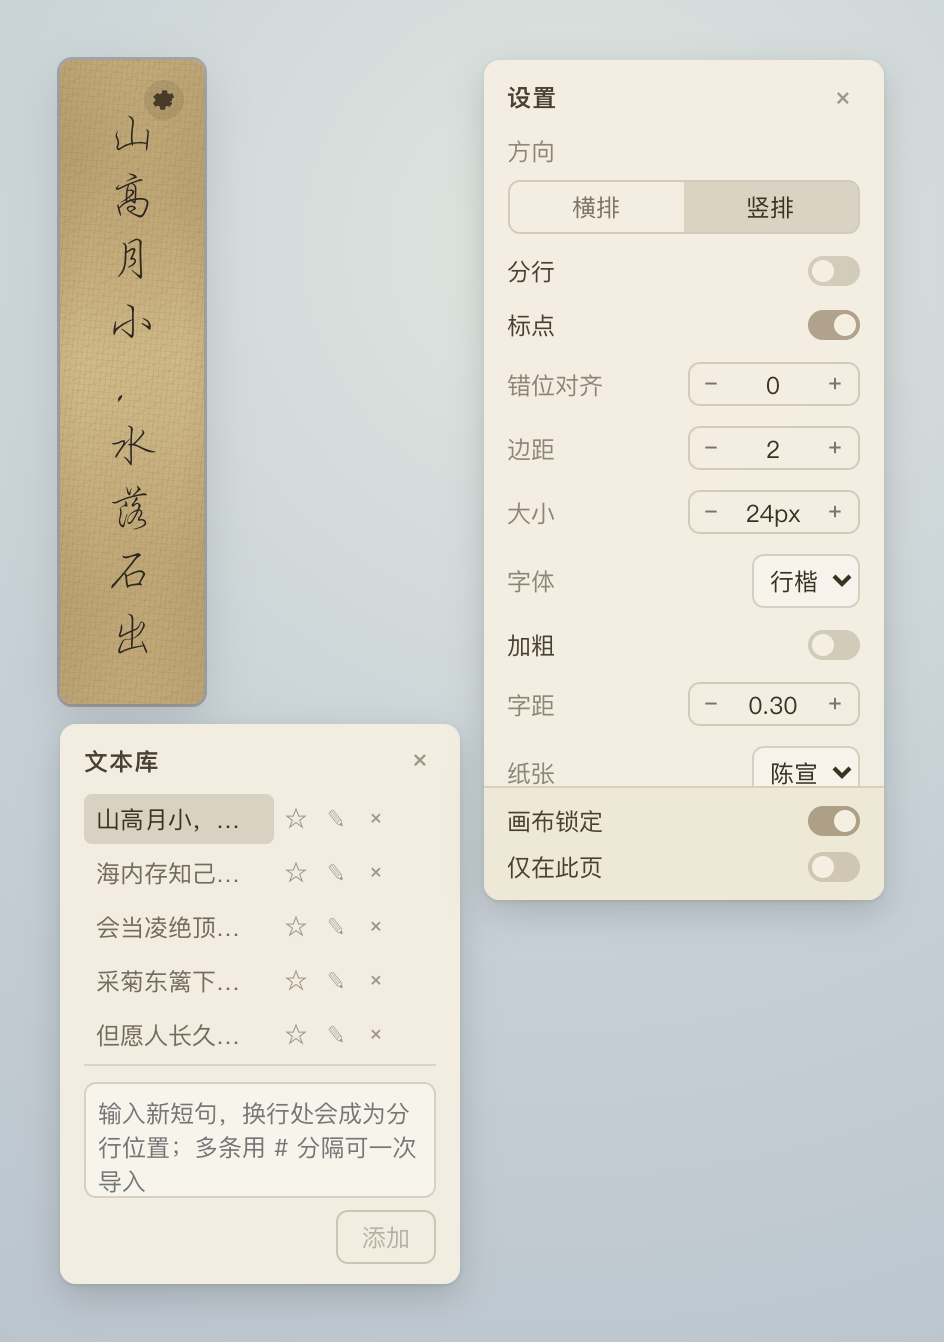
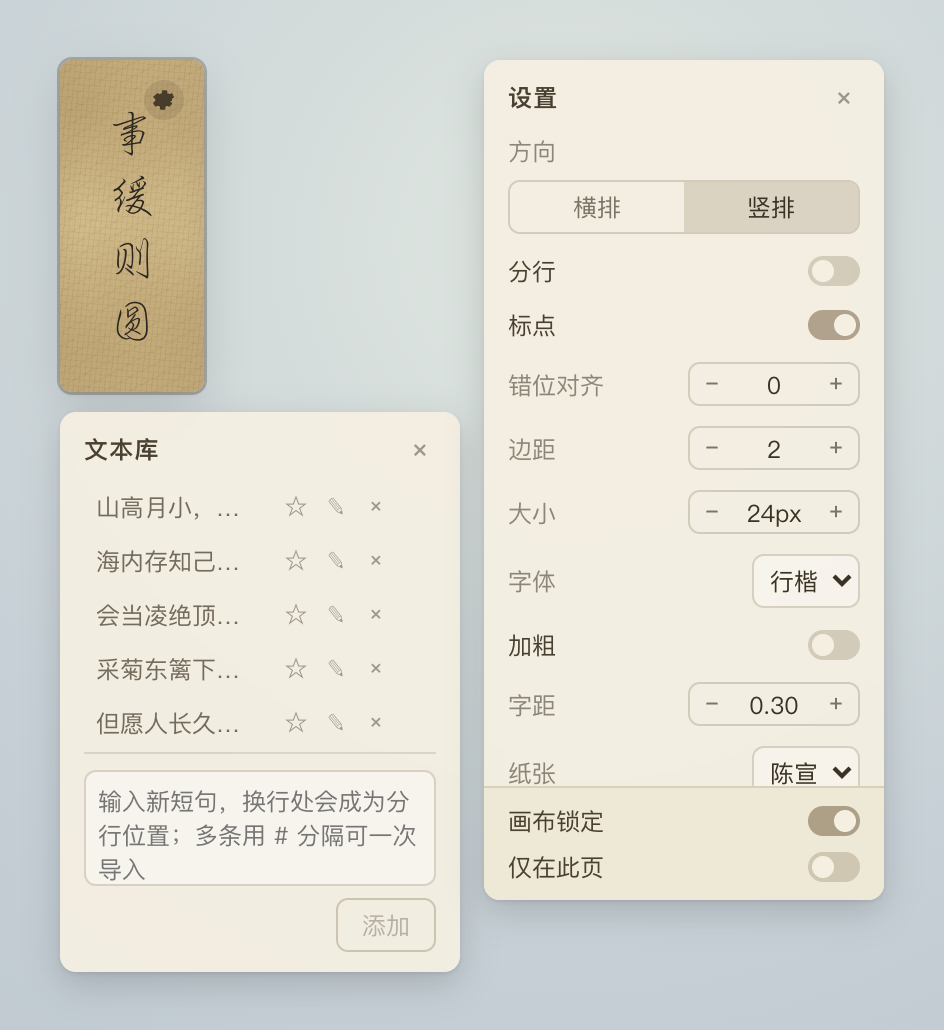
Persist the phrase library to disk; refresh README screenshots
- Phrase library (add/edit/delete/favorite) now survives app restarts
  via tauri-plugin-store, writing to a JSON file in app_data_dir —
  previously it only lived in React state and reset to the built-in
  seed every relaunch. Verified end-to-end against the real running
  dev app (not just the headless-Chrome harness): edited the on-disk
  store directly, relaunched, and confirmed the app loaded that
  instead of resetting to defaults.
- New in-context screenshot showing the card sitting on a (mocked,
  non-branded) desktop corner, not just an isolated close-up; existing
  screenshots regenerated using "事缓则圆" as the demo phrase.

Changed region(s): [[0.4915, 0.0311, 0.9523, 0.901], [0.0614, 0.0311, 0.4915, 0.9631]]

diff --git a/src/App.tsx b/src/App.tsx
@@ -1,7 +1,8 @@
-import { useCallback, useEffect, useState } from "react";
+import { useCallback, useEffect, useRef, useState } from "react";
 import { invoke } from "@tauri-apps/api/core";
 import { listen } from "@tauri-apps/api/event";
 import { currentMonitor, getCurrentWindow } from "@tauri-apps/api/window";
+import { load, type Store } from "@tauri-apps/plugin-store";
 import { CalligraphyText } from "./components/CalligraphyText";
 import { LibraryPopup } from "./components/LibraryPopup";
 import { SettingsButton } from "./components/SettingsButton";
@@ -31,6 +32,12 @@ const PANEL_FOOTPRINT_LOGICAL = 200 + 12;
 
 type PanelSide = "left" | "right";
 
+// Persisted on disk (app_data_dir), independent of the webview's own
+// cache/storage — survives app restarts and updates, only gone if the app
+// itself is uninstalled. See the phrases load/save effects in App().
+const PHRASES_STORE_FILE = "phrases.json";
+const PHRASES_STORE_KEY = "phrases";
+
 function App() {
   const [movable, setMovable] = useState(false);
   const [settingsOpen, setSettingsOpen] = useState(false);
@@ -40,12 +47,49 @@ function App() {
     DEFAULT_WINDOW_BEHAVIOR,
   );
   const [library, setLibrary] = useState(DEFAULT_LIBRARY_STATE);
-  // Single mutable list — seeded from the built-in PHRASES, but every
-  // entry (built-in or later added) can be edited/deleted/favorited
-  // equally from here on. Not persisted across restarts.
+  // Single mutable list — seeded from the built-in PHRASES on first ever
+  // launch, but every entry (built-in or later added) can be edited/
+  // deleted/favorited equally from here on. Persisted to disk below, so
+  // edits survive app restarts.
   const [phrases, setPhrases] = useState<PhraseEntry[]>(() =>
     PHRASES.map((text) => ({ text, favorite: false })),
   );
+  const phraseStoreRef = useRef<Store | null>(null);
+  const [phrasesLoaded, setPhrasesLoaded] = useState(false);
+
+  // Load once on mount: if a store already exists on disk (not a first
+  // launch), it overrides the built-in seed above; either way,
+  // phrasesLoaded flips true afterward so the save effect below knows it's
+  // safe to start writing (and, on a genuine first launch, persists that
+  // seed immediately instead of waiting for the user's first edit).
+  useEffect(() => {
+    let cancelled = false;
+    load(PHRASES_STORE_FILE).then(async (store) => {
+      if (cancelled) return;
+      phraseStoreRef.current = store;
+      const saved = await store.get<PhraseEntry[]>(PHRASES_STORE_KEY);
+      if (cancelled) return;
+      if (saved && saved.length > 0) {
+        setPhrases(saved);
+      }
+      setPhrasesLoaded(true);
+    });
+    return () => {
+      cancelled = true;
+    };
+  }, []);
+
+  useEffect(() => {
+    if (!phrasesLoaded) return;
+    const store = phraseStoreRef.current;
+    if (!store) return;
+    store
+      .set(PHRASES_STORE_KEY, phrases)
+      .then(() => store.save())
+      .catch(() => {
+        // Best-effort — nothing to recover if the disk write fails.
+      });
+  }, [phrases, phrasesLoaded]);
 
   // Tracks the paper's own on-screen position; opening/closing a popup
   // beside or below it never moves that anchor, only the window edges on

diff --git a/src-tauri/src/lib.rs b/src-tauri/src/lib.rs
@@ -65,6 +65,7 @@ fn set_all_spaces(window: tauri::WebviewWindow, enabled: bool) {
 pub fn run() {
     tauri::Builder::default()
         .plugin(tauri_plugin_opener::init())
+        .plugin(tauri_plugin_store::Builder::default().build())
         .invoke_handler(tauri::generate_handler![
             greet,
             resize_and_reposition,

diff --git a/README.md b/README.md
@@ -5,7 +5,7 @@
 A small always-on-top macOS desktop ornament that displays classical Chinese calligraphy phrases on a borderless, transparent "rice paper" card. Built with Tauri 2 + React + TypeScript.
 
 <p align="center">
-  <img src="docs/screenshot-card.png" alt="桌面书法卡片示意图" width="640">
+  <img src="docs/screenshot-desktop.png" alt="摆件常驻桌面一角的示意图" width="720">
 </p>
 
 ## 功能
@@ -13,12 +13,14 @@ A small always-on-top macOS desktop ornament that displays classical Chinese cal
 - 横排 / 竖排，可选是否分行、是否保留标点
 - 楷体、宋体、黑体、行楷、隶书、汉隶、仿宋、魏碑、圆体等系统字体，可加粗、可调字距
 - 米宣 / 青宣 / 陈宣 / 素白等纸张质感，透明度可调
-- 文本库：手动切换、正序/倒序/随机/收藏轮播，支持自定义切换频次与批量导入
+- 文本库：手动切换、正序/倒序/随机/收藏轮播，支持自定义切换频次与批量导入，内容会永久保存在本地，重启软件也不会丢
 - 双击画布解锁后可拖动，移到任意位置；默认在所有 macOS 虚拟桌面（Spaces）下都保持可见，也可以设为仅在当前桌面显示
 - 精简过的原生菜单栏（只有「设置」和「退出」）
 
 <p align="center">
-  <img src="docs/screenshot-settings.png" alt="设置面板与文本库示意图" width="640">
+  <img src="docs/screenshot-card.png" alt="桌面书法卡片近景示意图" width="420">
+  &nbsp;&nbsp;
+  <img src="docs/screenshot-settings.png" alt="设置面板与文本库示意图" width="420">
 </p>
 
 ## 下载使用
